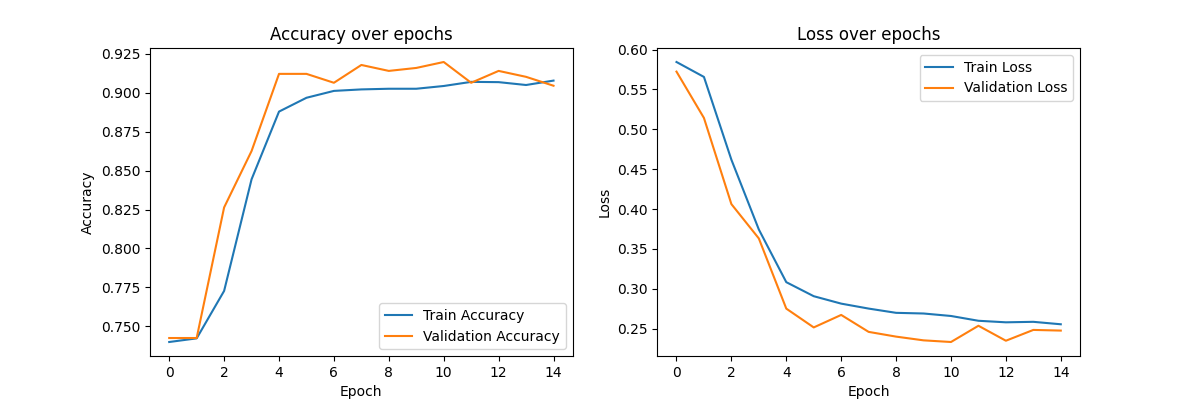
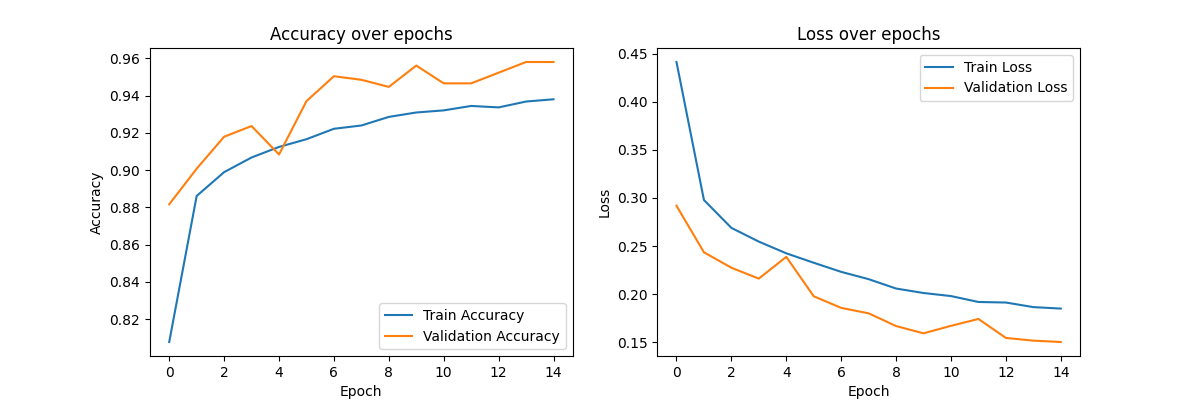
updated

diff --git a/A/trainCNN.py b/A/trainCNN.py
@@ -17,7 +17,7 @@ def train_model_origional(train_images_normalized,val_images_normalized,test_ima
     model = Sequential([
         Conv2D(5, kernel_size=3, activation='relu', input_shape=(train_images_normalized.shape[1], train_images_normalized.shape[2], 1), kernel_regularizer=l2(l2_reg)),
         MaxPooling2D(pool_size=(2, 2)),
-        Conv2D(9, kernel_size=3, activation='sigmoid', kernel_regularizer=l2(l2_reg)),
+        Conv2D(9, kernel_size=3, activation='relu', kernel_regularizer=l2(l2_reg)),
         MaxPooling2D(pool_size=(2, 2)),
         Conv2D(5, kernel_size=3, activation='relu', kernel_regularizer=l2(l2_reg)),
         MaxPooling2D(pool_size=(2, 2)),
@@ -67,7 +67,7 @@ def train_model_augmention(augmented_train_images_normalized,augmented_train_lab
     model = Sequential([
         Conv2D(5, kernel_size=3, activation='relu', input_shape=(augmented_train_images_normalized.shape[1], augmented_train_images_normalized.shape[2], 1), kernel_regularizer=l2(l2_reg)),
         MaxPooling2D(pool_size=(2, 2)),
-        Conv2D(9, kernel_size=3, activation='sigmoid', kernel_regularizer=l2(l2_reg)),
+        Conv2D(9, kernel_size=3, activation='relu', kernel_regularizer=l2(l2_reg)),
         MaxPooling2D(pool_size=(2, 2)),
         Conv2D(5, kernel_size=3, activation='relu', kernel_regularizer=l2(l2_reg)),
         MaxPooling2D(pool_size=(2, 2)),

diff --git a/B/readfile.py b/B/readfile.py
@@ -1,0 +1,38 @@
+import numpy as np
+import os
+def Dataread(file_path):
+    # load data from file
+    dataset = np.load(file_path)
+    #check the categries of the dataset
+    dataset.files
+    return dataset
+def category_Data(dataset):
+    #load each category as a variable
+    #train data
+    train_images = dataset['train_images']
+    train_labels = dataset['train_labels']
+    #Validation data
+    val_images = dataset['val_images']
+    val_labels = dataset['val_labels']
+    #test data
+    test_images = dataset['test_images']
+    test_labels = dataset['test_labels']
+
+    # print the varibles
+    #train
+    print("Train Images Shape:", train_images.shape)
+    print("Train Labels Shape:", train_labels.shape)
+    print("\n")
+    #Validation
+    print("Validation Image Shape:", val_images.shape)
+    print("Validation Labels Shape:", val_labels.shape)
+    print("\n")
+    #test
+    print("Test Images Shape:", test_images.shape)
+    print("Test Labels Shape:", test_labels.shape)
+    print("\n")
+
+    # close the file
+    dataset.close()
+
+    return  train_images,train_labels,val_images,val_labels,test_images,test_labels

diff --git a/B/Normalisation.py b/B/Normalisation.py
@@ -1,0 +1,12 @@
+"""
+Normalisation
+"""
+def NormalisationB(train_images,val_images,test_images):
+    train_images_normalized = train_images.astype('float32') / 255.0
+    val_images_normalized = val_images.astype('float32') / 255.0
+    test_images_normalized = test_images.astype('float32') / 255.0
+    print("range of the data after normlisation：")
+    print(f"training set：{train_images_normalized.min(), train_images_normalized.max()}")
+    print(f"validation set：{val_images_normalized.min(), val_images_normalized.max()}")
+    print(f"testing set：{test_images_normalized.min(), test_images_normalized.max()}")
+    return train_images_normalized,val_images_normalized,test_images_normalized

diff --git a/B/preData.py b/B/preData.py
@@ -1,0 +1,20 @@
+"""
+data pre-processing before train the neural network
+"""
+#load data from the file
+from readfile import Dataread
+file_path = 'Datasets/pathmnist.npz'
+dataset=Dataread(file_path)
+
+#load each category as a variable
+from readfile import category_Data
+train_images,train_labels,val_images,val_labels,test_images,test_labels=category_Data(dataset)
+
+# Random plot of the images
+from sampleB import plot_sample
+plot_sample(train_images, train_labels)
+
+# Normalisation of the images
+from Normalisation import NormalisationB
+train_images_normalized,val_images_normalized,test_images_normalized=NormalisationB(train_images,val_images,test_images)
+

diff --git a/B/sampleB.py b/B/sampleB.py
@@ -1,0 +1,22 @@
+"""
+
+"""
+import matplotlib.pyplot as plt
+import numpy as np
+import random
+# plot random sample
+def plot_sample(images, labels):
+    unique_labels = np.unique(labels)
+    plt.figure(figsize=(15, 15))
+
+    for i, label in enumerate(unique_labels):
+        idxs = np.where(labels == label)[0]
+        random_idx = np.random.choice(idxs)
+
+        plt.subplot(3, 3, i + 1)
+        plt.imshow(images[random_idx])
+        plt.title(f'Label: {label}')
+        plt.axis('off')
+
+    plt.suptitle('Random Sample for each lable')
+    plt.savefig("images/SampleB.png")
